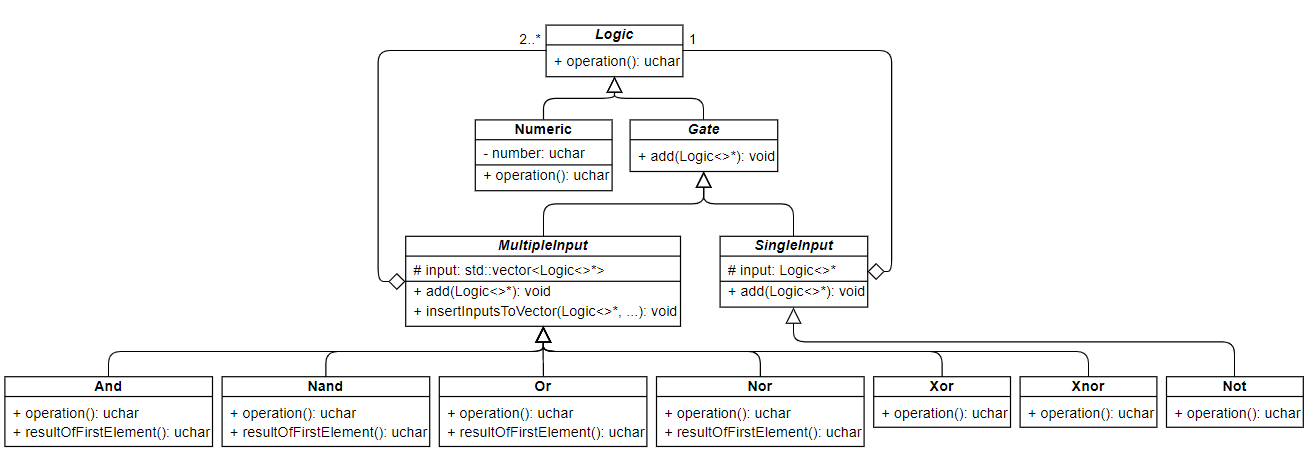
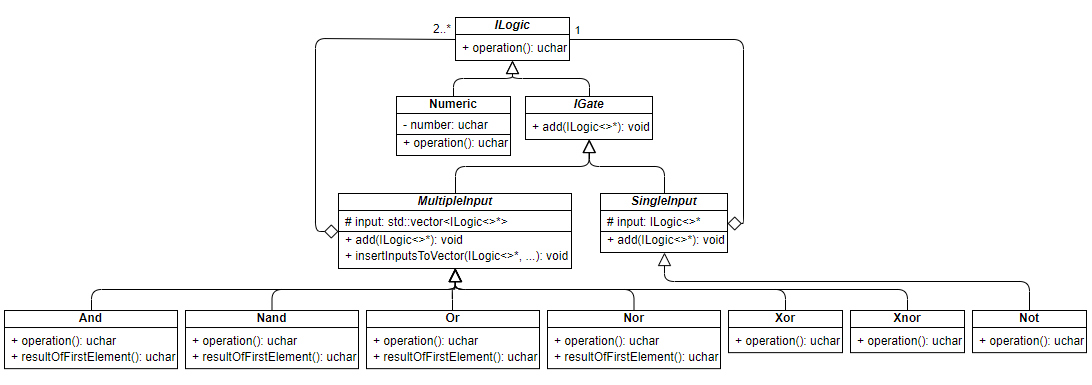
Changed some interfaces' names to match the standard naming convention. Updated the class diagram accordingly

Changed region(s): [[0.0, 0.2494, 0.9963, 0.9662], [0.2802, 0.0312, 0.685, 0.2182]]

diff --git a/Include/LogicGateLibrary/MultipleInput.h b/Include/LogicGateLibrary/MultipleInput.h
@@ -1,16 +1,16 @@
 #pragma once
 #include <numeric>
-#include "Gate.h"
+#include "IGate.h"
 
 template<typename T=u_char>
-class MultipleInput : public Gate<T>{
+class MultipleInput : public IGate<T>{
 public:
     MultipleInput(){
-        input = std::make_shared<std::vector<Logic<T>*>>();
+        input = std::make_shared<std::vector<ILogic<T>*>>();
     }
 
 protected:
-    std::shared_ptr<std::vector<Logic<T>*>> input = nullptr;
+    std::shared_ptr<std::vector<ILogic<T>*>> input = nullptr;
 
     template<typename First>
     void insertInputsToVector(First* input1){
@@ -23,7 +23,7 @@ protected:
         insertInputsToVector(others...);
     }
 
-    void add(Logic<T>* logic){
+    void add(ILogic<T>* logic){
         if (logic != nullptr){
             input->push_back(logic);
         }

diff --git a/Include/LogicGateLibrary/SingleInput.h b/Include/LogicGateLibrary/SingleInput.h
@@ -1,17 +1,17 @@
 #pragma once
-#include "Gate.h"
+#include "IGate.h"
 
 template<typename T>
-class SingleInput : public Gate<T>{
+class SingleInput : public IGate<T>{
 public:
     SingleInput(){
-        input = std::make_shared<Logic<T>*>();
+        input = std::make_shared<ILogic<T>*>();
     }
 
 protected:
-    std::shared_ptr<Logic<T>*> input = nullptr;
+    std::shared_ptr<ILogic<T>*> input = nullptr;
 
-    void add(Logic<T>* logic){
+    void add(ILogic<T>* logic){
         if (logic != nullptr){
             *input = logic;
         }

diff --git a/Include/LogicGateLibrary/Nand.h b/Include/LogicGateLibrary/Nand.h
@@ -10,7 +10,7 @@ public:
     }
 
     T operation(){
-        T result = std::accumulate(this->input->begin(), this->input->end(), resultOfFirstElement(), [] (T l1, Logic<T>* l2){
+        T result = std::accumulate(this->input->begin(), this->input->end(), resultOfFirstElement(), [] (T l1, ILogic<T>* l2){
             return l1 & l2->operation();
         });
         return ~result;

diff --git a/Include/LogicGateLibrary/Nor.h b/Include/LogicGateLibrary/Nor.h
@@ -10,7 +10,7 @@ public:
     }
 
     T operation(){
-        T result = std::accumulate(this->input->begin(), this->input->end(), resultOfFirstElement(), [] (T l1, Logic<T>* l2){
+        T result = std::accumulate(this->input->begin(), this->input->end(), resultOfFirstElement(), [] (T l1, ILogic<T>* l2){
             return l1 | l2->operation();
         });
         return ~result;

diff --git a/Include/LogicGateLibrary/Or.h b/Include/LogicGateLibrary/Or.h
@@ -10,7 +10,7 @@ public:
     }
 
     T operation(){
-        T result = std::accumulate(this->input->begin(), this->input->end(), resultOfFirstElement(), [] (T l1, Logic<T>* l2){
+        T result = std::accumulate(this->input->begin(), this->input->end(), resultOfFirstElement(), [] (T l1, ILogic<T>* l2){
             return l1 | l2->operation();
         });
         return result;

diff --git a/Include/LogicGateLibrary/And.h b/Include/LogicGateLibrary/And.h
@@ -10,7 +10,7 @@ public:
     }
 
     T operation(){
-        T result = std::accumulate(this->input->begin(), this->input->end(), resultOfFirstElement(), [] (T l1, Logic<T>* l2){
+        T result = std::accumulate(this->input->begin(), this->input->end(), resultOfFirstElement(), [] (T l1, ILogic<T>* l2){
            return l1 & l2->operation();
         });
         return result;

diff --git a/Include/LogicGateLibrary/Xnor.h b/Include/LogicGateLibrary/Xnor.h
@@ -10,7 +10,7 @@ public:
     }
 
     T operation(){
-        T result = std::accumulate(this->input->begin(), this->input->end(), 0, [] (T l1, Logic<T>* l2){
+        T result = std::accumulate(this->input->begin(), this->input->end(), 0, [] (T l1, ILogic<T>* l2){
             return l1 ^ l2->operation();
         });
         return ~result;

diff --git a/Include/LogicGateLibrary/Xor.h b/Include/LogicGateLibrary/Xor.h
@@ -10,7 +10,7 @@ public:
     }
 
     T operation(){
-        T result = std::accumulate(this->input->begin(), this->input->end(), 0, [] (T l1, Logic<T>* l2){
+        T result = std::accumulate(this->input->begin(), this->input->end(), 0, [] (T l1, ILogic<T>* l2){
             return l1 ^ l2->operation();
         });
         return result;

diff --git a/Include/LogicGateLibrary/IGate.h b/Include/LogicGateLibrary/IGate.h
@@ -1,0 +1,11 @@
+#pragma once
+#include <vector>
+#include <memory>
+#include "ILogic.h"
+
+template<typename T = u_char>
+class IGate : public ILogic<T> {
+public:
+    virtual void add(ILogic<T>* logic) = 0;
+    virtual ~IGate() = default;
+};

diff --git a/Include/LogicGateLibrary/Numeric.h b/Include/LogicGateLibrary/Numeric.h
@@ -1,8 +1,8 @@
 #pragma once
-#include "Logic.h"
+#include "ILogic.h"
 
 template<typename T = u_char>
-class Numeric : public Logic<T> {
+class Numeric : public ILogic<T> {
 public:
     Numeric(const T number) : m_number(number) {};
 

diff --git a/Include/LogicGateLibrary/Not.h b/Include/LogicGateLibrary/Not.h
@@ -4,7 +4,7 @@
 template<typename T=u_char>
 class Not : public SingleInput<T> {
 public:
-    Not(Logic<T>* input) : SingleInput<T>() {
+    Not(ILogic<T>* input) : SingleInput<T>() {
         this->add(input);
     }
 

diff --git a/Include/LogicGateLibrary/ILogic.h b/Include/LogicGateLibrary/ILogic.h
@@ -2,7 +2,8 @@
 typedef uint8_t u_char;
 
 template<typename T = u_char>
-class Logic {
+class ILogic {
 public:
     virtual T operation() = 0;
+    virtual ~ILogic() = default;
 };
